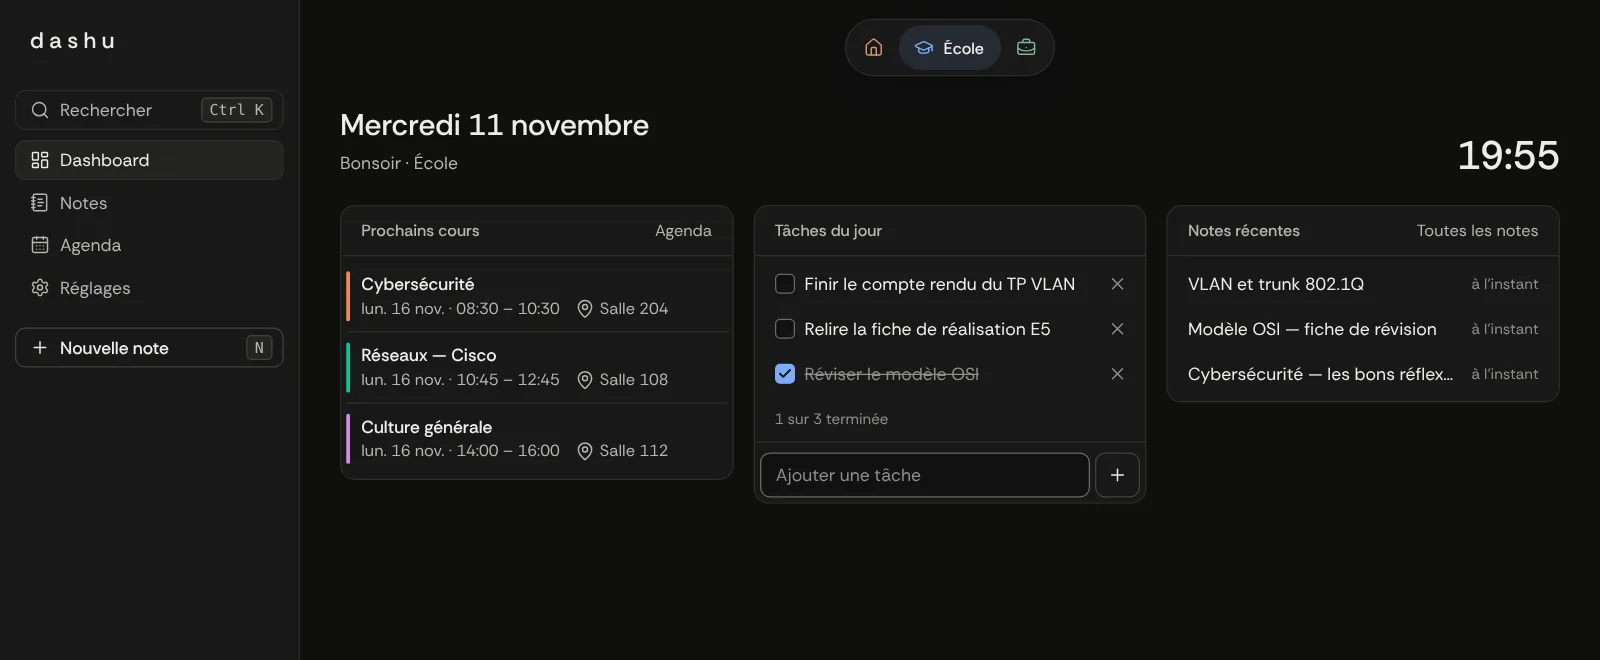
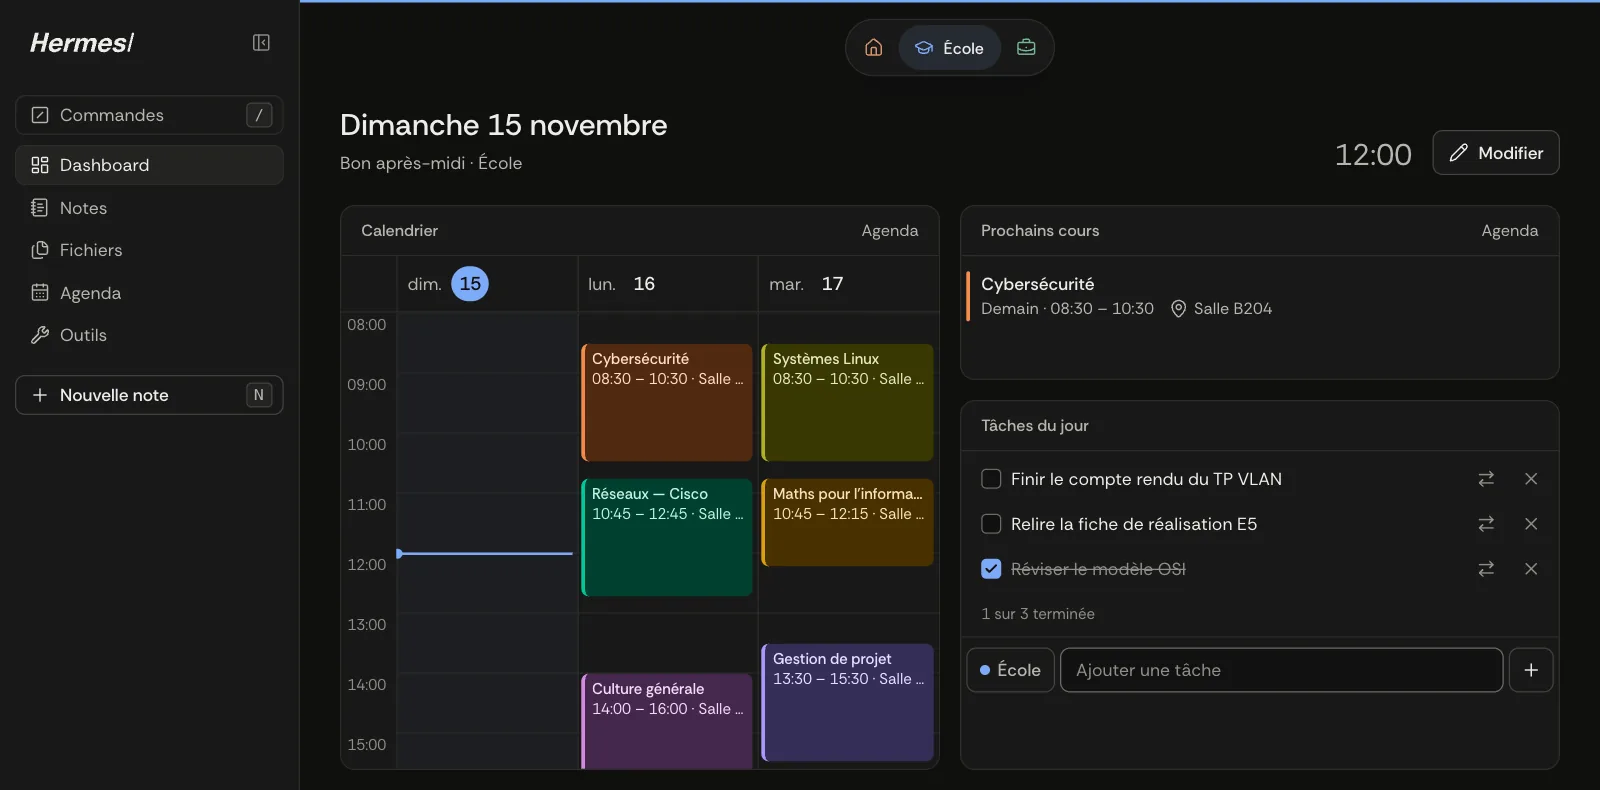
Réalisation dashu : nouvelles captures (dossiers, éditeur, commandes)
Captures du 15 novembre 2026, sur une copie locale de l'application
remplie de données de démonstration (faux cours, fausses notes, faux
fichiers) : dashboard, agenda de Perso, un dossier de l'onglet Fichiers,
la fenêtre « Ranger », l'éditeur avec le menu « / », la barre de
commandes et trois écrans d'iPhone. La palette Ctrl+K, qui n'existe
plus, est retirée. La capture de la restauration reste la sortie réelle
du serveur.

diff --git a/content/realisations/dashu.md b/content/realisations/dashu.md
@@ -31,10 +31,10 @@ competences: [B1.1, B1.4, B1.5, B1.6]  # codes du référentiel, ex. [B1.1, B1.4
   - Contenu rédigé d'après le dépôt github.com/moreauremi/dashu : SPEC.md (cahier
     des charges), STATUS.md (critères vérifiés, mesures, écarts) et README.md
     (déploiement, sauvegardes). C'est la référence.
-  - Captures du 11 novembre 2026 : une copie de dashu remplie de données de
-    démonstration (faux cours, fausses notes, compte demo@dashu.dev), pas mes
-    vraies données. La capture de la restauration est la sortie réelle sur le
-    serveur, remise en forme.
+  - Captures du 15 novembre 2026 : une copie locale de l'application remplie de
+    données de démonstration (faux cours, fausses notes, faux fichiers, compte
+    demo@example.test), pas mes vraies données. La capture de la restauration est
+    la sortie réelle sur le serveur, le 11 novembre, remise en forme.
   - Mise à jour du 15 novembre 2026 : la v2 (fichiers, conversions, dossiers),
     la barre de commandes et le nouvel éditeur, d'après STATUS.md.
 -->
@@ -102,17 +102,21 @@ Code source : [github.com/moreauremi/dashu](https://github.com/moreauremi/dashu)
 
 ## Captures d'écran
 
-Captures de la v1, le 11 novembre 2026, sur une copie de dashu remplie de données de démonstration (faux cours, fausses notes). La dernière est la sortie réelle de la restauration sur mon serveur. Depuis, l'éditeur ne montre plus qu'une vue mise en forme, et la palette Ctrl+K est devenue la barre de commandes.
+Captures du 15 novembre 2026, sur une copie de l'application remplie de données de démonstration (faux cours, fausses notes, faux fichiers). La dernière est la sortie réelle de la restauration sur mon serveur, le 11 novembre.
 
-![Dashboard de l'espace École en thème sombre : prochains cours avec horaires et salles, tâches du jour avec une case cochée, notes récentes et horloge. En haut, l'île avec les trois espaces, École sélectionné.](captures/dashu/dashboard.webp "Dashboard de l'espace École : prochains cours, tâches du jour, notes récentes")
+![Dashboard de l'espace École en thème sombre : un calendrier sur trois jours avec les cours colorés par matière, le prochain cours avec son heure et sa salle, et les tâches du jour, dont une cochée. En haut, l'île avec les trois espaces, École sélectionné ; à gauche, la barre latérale : Commandes, Dashboard, Notes, Fichiers, Agenda, Outils.](captures/dashu/dashboard.webp "Dashboard de l'espace École : calendrier, prochain cours, tâches du jour")
 
-![Agenda de l'espace Perso en thème clair, semaine du 16 novembre : les cours de l'espace École le lundi et le mardi, le planning de l'espace Taff du mercredi au vendredi, et les rendez-vous perso. Chaque événement porte le nom de son espace.](captures/dashu/agenda-vue-ensemble.webp "Agenda de Perso : la vue d'ensemble de tous les espaces")
+![Agenda de l'espace Perso en thème clair, semaine du 16 novembre : les cours de l'espace École le lundi et le mardi, le planning de l'espace Taff du mercredi au vendredi. Chaque événement porte le nom de son espace.](captures/dashu/agenda-vue-ensemble.webp "Agenda de Perso : la vue d'ensemble de tous les espaces")
 
-![Éditeur de la note « VLAN et trunk 802.1Q » : le Markdown à gauche, l'aperçu à droite avec titres, liste, bloc de commandes Cisco et tableau des VLAN, et les tags #bts et #réseau.](captures/dashu/editeur.webp "Éditeur Markdown, avec aperçu en direct et sauvegarde automatique")
+![Onglet Fichiers, dossier Réseaux de l'espace École : le chemin Fichiers › École › Réseaux, les boutons Nouvelle note, Nouveau dossier et Envoyer des fichiers, la zone de dépôt qui envoie dans « École / Réseaux », puis le sous-dossier TP, deux notes et deux PDF.](captures/dashu/dossiers.webp "Fichiers : des dossiers qui rangent les fichiers et les notes")
 
-![Palette de commandes ouverte par Ctrl+K : la recherche « vlan » trouve la note « VLAN et trunk 802.1Q » de l'espace École, mot recherché surligné.](captures/dashu/palette.webp "Palette Ctrl+K : recherche dans toutes les notes, au clavier")
+![Fenêtre « Ranger » ouverte sur le fichier memento-cisco.pdf : les espaces Perso, École et Taff, et sous chacun ses dossiers et sous-dossiers ; le dossier actuel, Réseaux, est marqué « Ici ».](captures/dashu/ranger.webp "Ranger un fichier : tous les espaces et tous les dossiers dans une seule fenêtre")
 
-![Trois écrans d'iPhone en thème sombre : le dashboard de l'espace École, l'agenda de Perso qui défile horizontalement, et la liste des notes avec les tags. En bas, la barre de raccourcis : Dashboard, Notes, Agenda, Rechercher.](captures/dashu/telephone.webp "Sur iPhone, en application sur l'écran d'accueil : île en haut, raccourcis en bas")
+![Éditeur de la note « VLAN et trunk 802.1Q » : le texte mis en forme (liste, bloc de commandes Cisco, tableau des VLAN, cases à cocher), et sous le titre le dossier « École / Réseaux » et les tags #bts et #réseau. Le menu des blocs est ouvert après un « / » : texte, titres, listes, liste de tâches.](captures/dashu/editeur.webp "Éditeur en une seule vue : « / » ouvre le menu des blocs")
+
+![Barre de commandes ouverte sur le dashboard : la saisie « /open vlan » propose la note « VLAN et trunk 802.1Q » et le fichier cours-vlan.pdf de l'espace École ; en bas, l'aide des touches Tab, flèches et Entrée.](captures/dashu/commandes.webp "Barre de commandes « / » : tout se fait au clavier")
+
+![Trois écrans d'iPhone en thème sombre : le dashboard de l'espace École avec son calendrier, la liste des notes rangée par dossier (Sans dossier, Culture générale, Cybersécurité), et le dossier Réseaux dans l'onglet Fichiers. En bas, la barre de raccourcis : Dashboard, Notes, Agenda, Commandes.](captures/dashu/telephone.webp "Sur iPhone, en application sur l'écran d'accueil")
 
 ![Terminal du serveur : dashu-restore liste les sauvegardes de la plus récente à la plus ancienne, puis restaure dashu-2026-11-11_183222.db. La base actuelle est d'abord sauvegardée et vérifiée, puis la restauration se termine et indique la commande pour revenir en arrière.](captures/dashu/restauration.webp "Exercice de restauration sur le serveur, le 11 novembre 2026")
 

diff --git a/content/realisations/dashu.en.md b/content/realisations/dashu.en.md
@@ -69,17 +69,21 @@ Source code: [github.com/moreauremi/dashu](https://github.com/moreauremi/dashu) 
 
 ## Screenshots
 
-Screenshots of version 1, from 11 November 2026, taken on a copy of dashu filled with demo data (fake classes, fake notes). The last one is the real output of the restore on my server. Since then, the editor shows a single formatted view, and the Ctrl+K palette has become the command bar.
+Screenshots from 15 November 2026, taken on a copy of the app filled with demo data (fake classes, fake notes, fake files). The last one is the real output of the restore on my server, on 11 November.
 
-![Dashboard of the School space in dark theme: upcoming classes with times and rooms, today's tasks with one ticked, recent notes and a clock. At the top, the island with the three spaces, School selected.](captures/dashu/dashboard.webp "Dashboard of the School space: upcoming classes, today's tasks, recent notes")
+![Dashboard of the School space in dark theme: a three-day calendar with classes coloured by subject, the next class with its time and room, and today's tasks, one of them ticked. At the top, the island with the three spaces, School selected; on the left, the sidebar: Commands, Dashboard, Notes, Files, Agenda, Tools.](captures/dashu/dashboard.webp "Dashboard of the School space: calendar, next class, today's tasks")
 
-![Calendar of the Personal space in light theme, week of 16 November: the School classes on Monday and Tuesday, the Work schedule from Wednesday to Friday, and personal appointments. Each event shows the name of its space.](captures/dashu/agenda-vue-ensemble.webp "Personal calendar: an overview of every space")
+![Calendar of the Personal space in light theme, week of 16 November: the School classes on Monday and Tuesday, the Work schedule from Wednesday to Friday. Each event shows the name of its space.](captures/dashu/agenda-vue-ensemble.webp "Personal calendar: an overview of every space")
 
-![Editor of the note "VLAN et trunk 802.1Q": Markdown on the left, the preview on the right with headings, a list, a block of Cisco commands and a table of VLANs, and the tags #bts and #réseau.](captures/dashu/editeur.webp "Markdown editor, with live preview and autosave")
+![Files tab, Réseaux folder of the School space: the path Files › School › Réseaux, the New note, New folder and Upload buttons, the drop zone that uploads to "École / Réseaux", then the TP subfolder, two notes and two PDFs.](captures/dashu/dossiers.webp "Files: folders that hold both files and notes")
 
-![Command palette opened with Ctrl+K: searching for "vlan" finds the note "VLAN et trunk 802.1Q" in the School space, with the search word highlighted.](captures/dashu/palette.webp "Ctrl+K palette: search every note from the keyboard")
+![The "Ranger" (file away) window opened on the file memento-cisco.pdf: the Personal, School and Work spaces, each with its folders and subfolders; the current folder, Réseaux, is marked "Ici" (here).](captures/dashu/ranger.webp "Filing a file: every space and every folder in a single window")
 
-![Three iPhone screens in dark theme: the dashboard of the School space, the Personal calendar scrolling horizontally, and the list of notes with their tags. At the bottom, the shortcut bar: Dashboard, Notes, Agenda, Search.](captures/dashu/telephone.webp "On iPhone, as an app on the home screen: island at the top, shortcuts at the bottom")
+![Editor of the note "VLAN et trunk 802.1Q": formatted text (a list, a block of Cisco commands, a table of VLANs, checkboxes), and under the title the folder "École / Réseaux" and the tags #bts and #réseau. The block menu is open after typing "/": text, headings, lists, task list.](captures/dashu/editeur.webp "Single-view editor: “/” opens the block menu")
+
+![Command bar opened on the dashboard: typing "/open vlan" suggests the note "VLAN et trunk 802.1Q" and the file cours-vlan.pdf from the School space; at the bottom, help for the Tab, arrow and Enter keys.](captures/dashu/commandes.webp "The “/” command bar: everything from the keyboard")
+
+![Three iPhone screens in dark theme: the dashboard of the School space with its calendar, the list of notes grouped by folder (no folder, Culture générale, Cybersécurité), and the Réseaux folder in the Files tab. At the bottom, the shortcut bar: Dashboard, Notes, Agenda, Commands.](captures/dashu/telephone.webp "On iPhone, as an app on the home screen")
 
 ![Server terminal: dashu-restore lists the backups from newest to oldest, then restores dashu-2026-11-11_183222.db. The current database is first backed up and checked, then the restore finishes and shows the command to roll back.](captures/dashu/restauration.webp "Restore drill on the server, 11 November 2026")
 
